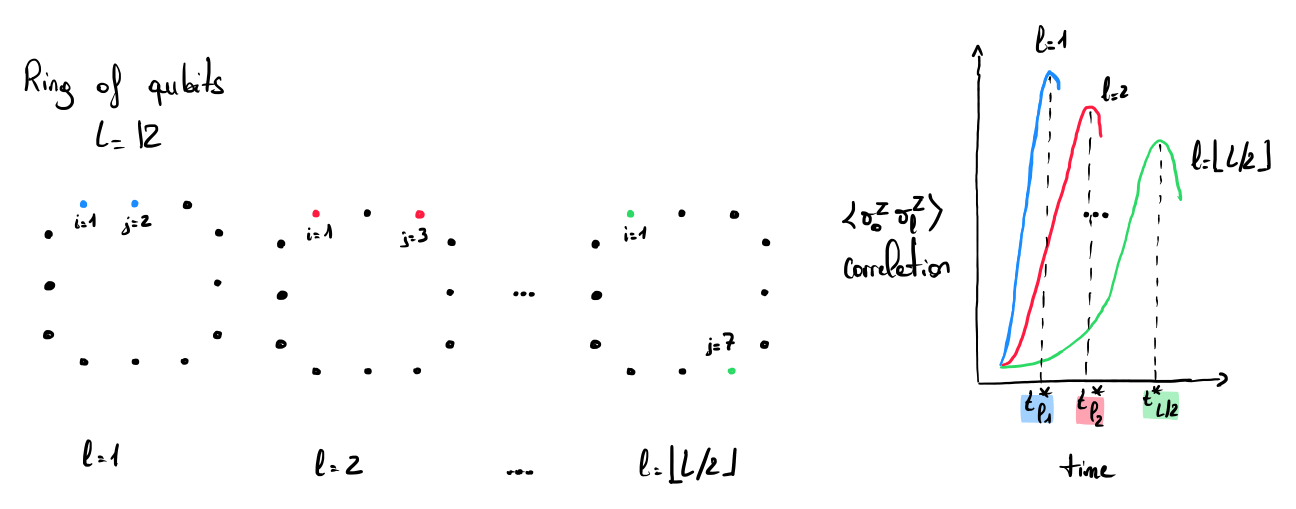
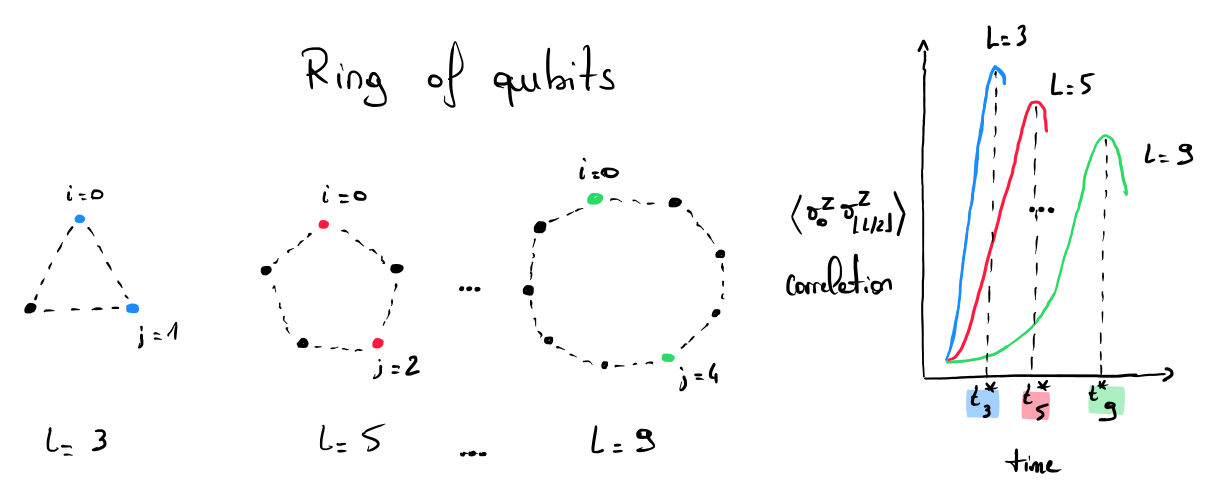
feat-update: update of the MBQS protocol

diff --git a/content/application-level-benchmark/protocols/many-body-quantum-score.md b/content/application-level-benchmark/protocols/many-body-quantum-score.md
@@ -14,34 +14,35 @@ Quantum many-body problems are believed to be particularly adapted to quantum co
 
 ## Protocol
 
-The MBQS protocol was proposed in 2026 by H. Erbin et al. {% cite Erbin2026ManybodyQS %} and evaluates the ability of a quantum computer to simulate the Hamiltonian dynamics of a 1D Ising chain or ring. The main idea is to evaluate the correlations between different qubits (sites) constituting the chain at a specific time $$t^*$$. The time $$t^*$$ is theoretically and efficiently derived for 1D systems and corresponds to a correlation peak depending on the distance between the two sites being evaluated. In the picture, three correlation peaks are display, one that corresponds to the length $$l=1$$ (blue), one that corresponds to the length $$l=2$$ (red) and one that corresponds to the length $$l=6$$ (green). The value $$t^*$$ increases with the distance between the qubits. As the distance increases, the magnitude of the peak decreases (see diagram in the picture). The correlation values obtained for each length $$l$$ are then compared to the ideal values derived theoretically for the Ising model in polynomial time $$O(L^3)$$ (for rings composed of $$L$$ qubits, the maximum length $$l$$ corresponds to $$\lfloor L/2 \rfloor$$). In this way, the protocol is able to check the correlation spread among the device and use this quantity as a proxy for measuring the entanglement rate of the system.
+The MBQS protocol was proposed in 2026 by H. Erbin et al. {% cite Erbin2026ManybodyQS %} and evaluates the ability of a quantum computer to simulate the Hamiltonian dynamics of a 1D Ising chain or ring. The main idea is to evaluate the correlations between different qubits (sites) constituting the chain at a specific time $$t^*$$. In one-dimensional systems, the time $$t^*$$ corresponds to a correlation peak and depends on the ring size $$L$$. In the paper, this value is computed via Pulser and QuTiP, but it can also be efficiently approximated with a formula. In the picture, three antipodal correlation peaks are displayed: one corresponding to the ring length $$L=3$$ (blue), one to $$L=5$$ (red), and one to $$L=9$$ (green). As the size of the ring increases, $$t^*$$ increases, and the peak magnitude decreases (see the diagram in the picture). The correlation values obtained for each length $$L$$ are then compared to the ideal values derived theoretically for the Ising model in polynomial time $$O(L^3)$$ (for rings composed of $$L$$ qubits, the antipodal site corresponds to $$\ell = \lfloor L/2 \rfloor$$). In this way, the protocol tests the spreading of correlations across different system sizes and uses this behavior as a proxy for entanglement growth.
 
 <div class="center">
   <img src="/img/application-level-benchmark/MBQS-presentation.png" class="img-large" alt=""/>
 </div>
 
 Steps of the protocol:
-- The system is prepared in an initial state ($$\ket{00...0}$$ in the paper).
+- The system is prepared in an initial state (for example, $$\ket{00...0}$$ and $$\ket{++...+}$$ are used in the paper).
 - The system is evolved until $$t^*$$ with the Ising model Hamiltonian.
 - The qubits are measured, and the correlation between qubits $$i$$ and $$j$$ is computed.
-- The experiment is repeated several times for different lengths $$l$$ (and hence different $$t^*$$).
+- The experiment is repeated several times for different system sizes $$L$$ (and hence different $$t^*$$).
 
-The 2-point correlation between qubits $$i$$ and $$j$$ is evaluated with the formula:
-$$g_l(t) = \left< \sigma_i^z(t) \sigma_j^z(t) \right> - \left< \sigma_i^z(t) \right>  \left< \sigma_j^z(t) \right>$$
+The 2-point correlation between qubits $$i=0$$ and $$j=\ell$$ is evaluated with the formula: 
 
-where $$\left< \sigma_i^z \right>$$ corresponds to the average eigenvalue associated with the observable $$\sigma^z$$ on the qubit $$i$$. For each length $$l$$, the value of the 2-point correlation function is computed experimentally with the quantum computer $$g_l^{\mathrm{exp}}(t)$$ and theoretically calculated with a classical computer $$g_l^{\mathrm{th}}(t)$$. The comparison between these two values gives a scoring function $$P_2(L)$$ (see eq. 2.4 of {% cite Erbin2026ManybodyQS %}) that equals $$1$$ for classical random output and $$0$$ for a perfect result. The quantum computer is assumed to validate a score $$L$$ if $$P_2(L)$$ gets below a certain threshold. The authors propose a notation for the MBQS protocol: $$MBQS_{\mathrm{+}}(0.05)$$, where the $$+$$ denotes the initial state $$\ket{+}$$ and $$0.05$$ the value of the threshold.
+$$g_\ell(t) = \left< \sigma_i^z(t) \sigma_j^z(t) \right> - \left< \sigma_i^z(t) \right>  \left< \sigma_j^z(t) \right>$$
+
+where $$\left< \sigma_i^z \right>$$ corresponds to the average eigenvalue associated with the observable $$\sigma^z$$ on the qubit $$i$$. For each length $$\ell$$, the value of the 2-point correlation function is computed experimentally with the quantum computer $$g_\ell^{\mathrm{exp}}(t)$$ and theoretically calculated with a classical computer $$g_\ell^{\mathrm{th}}(t)$$. The comparison between these two values gives a scoring function $$P_2(L)$$ (see eq. 2.4 of {% cite Erbin2026ManybodyQS %}) that equals $$1$$ for classical random output and $$0$$ for a perfect result. The quantum computer is assumed to validate a score $$L$$ if $$P_2(L)$$ gets below a certain threshold. The authors propose a notation for the MBQS protocol: $$MBQS_{\mathrm{+}}(0.05)$$, where the $$+$$ denotes the initial state $$\ket{+}$$ and $$0.05$$ the value of the threshold.
 
 This protocol can be extended to gate-based quantum computers using Trotter approximation or block-encoding methods. The initial paper example focuses on qubits arranged in a ring structure. This protocol might also be extended to open boundary conditions with chains of qubits.
 
 ## Assumptions
 
-- The compiler may use all the possible tricks to improve the mapping of the quantum circuit, which can lead to high extra-processing time.
+- The compiler may use all possible tricks to improve the mapping of the quantum circuit, which can lead to significant extra processing time.
 - Error mitigation is authorized in this protocol. However, the authors recommend reporting values with and without error mitigation methods to capture the raw performance of the quantum computer.
 
 ## Limitations
 
-- This protocol is limited to 1D geometry. The exact derivation for more complex geometries.
-- As the time $$t^*$$ scales with $$L$$, the height of the peak deacreases exponentially. It entails an exponential number of measurements required to precisely evaluate the 2-point correlation function (see fig. 26 in the article {% cite Erbin2026ManybodyQS %}).
+- This protocol is limited to 1D geometry and allows computing exact correlation values in $$O(L^3)$$. Theoretical or approximate derivations of the value of antipodal correlation peaks for more complex geometries are not currently known.
+- As the time $$t^*$$ scales with $$L$$, the height of the peak deacreases exponentially. It entails an exponential number of measurements required to precisely evaluate the 2-point correlation function (see fig. 26 in the article {% cite Erbin2026ManybodyQS %}). In this case, the speed of the quantum computer will be important and can be considered in the test.
 
 ## Results
 
